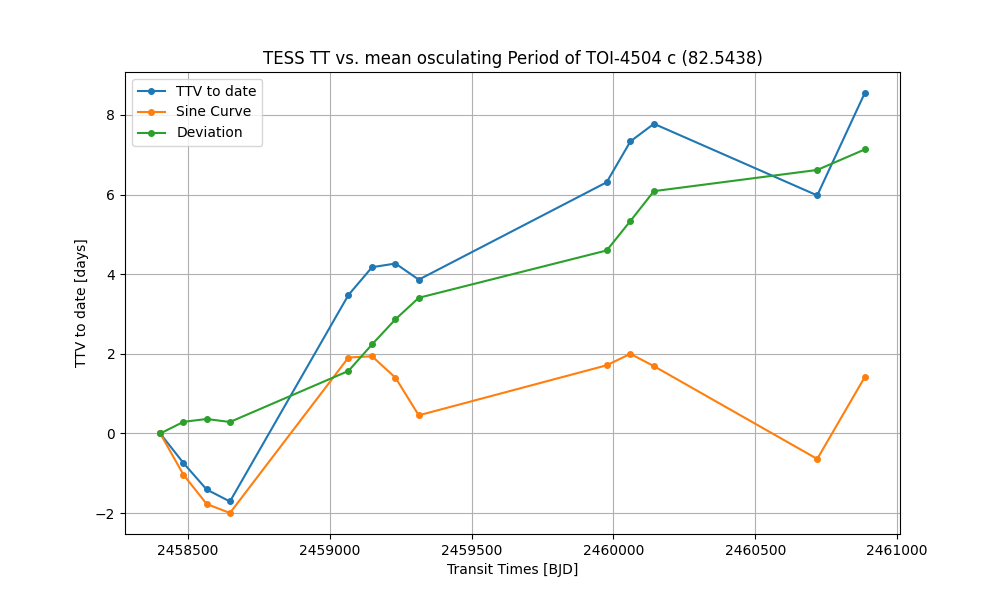
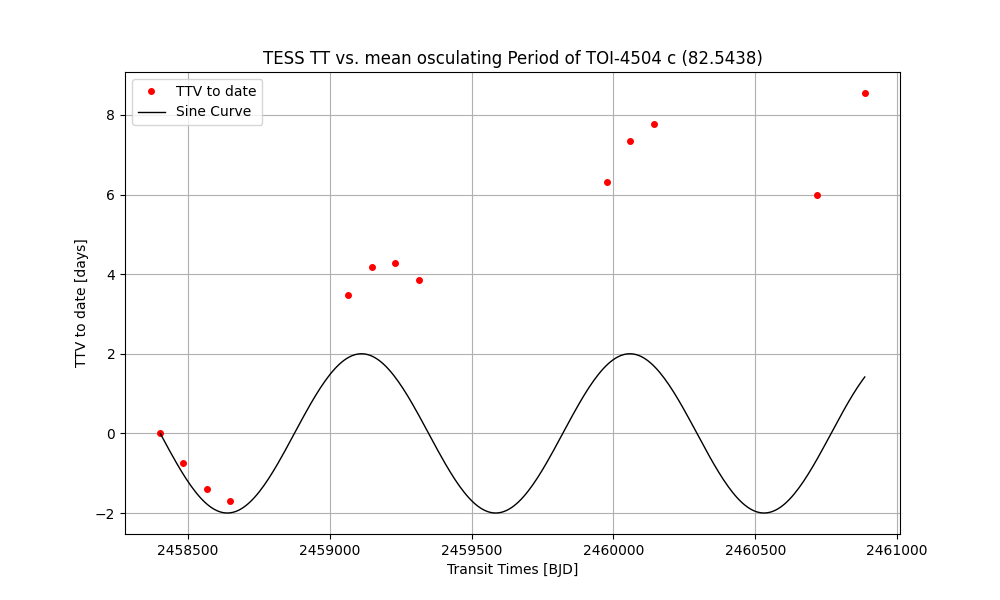
0.5.6 Fitting TOI-4504

diff --git a/src/curvesimulator/cs_results.py b/src/curvesimulator/cs_results.py
@@ -308,14 +308,15 @@ class CurveSimResults(dict):
         return parameter_list
 
     @staticmethod
-    def ttv_to_date_plot(p, amplitude, period, x_offset, y_offset, osc_per):
+    def ttv_to_date_plot(p, amplitude, period, x_offset, osc_per):
         measured_tt = CurveSimResults.get_measured_tt(p)  # reads from p.tt_file
         tt_tess = np.array(measured_tt["tt"][:13], dtype=float)
         transit_numbers = [0, 1, 2, 3, 8, 9, 10, 11, 19, 20, 21, 28, 30]
         ttv_to_date = [tt - tt_tess[0] - n * osc_per for n, tt in zip(transit_numbers, tt_tess)]
 
         x4sine = np.linspace(tt_tess[0], tt_tess[-1], 300)
-        sine_curve = amplitude * np.sin(2 * np.pi * (x4sine - tt_tess[0] - x_offset) / period) + y_offset
+        sine_curve = amplitude * np.sin(2 * np.pi * (x4sine - tt_tess[0] - x_offset) / period)
+        sine_curve -= sine_curve[0]
 
         CurveSimResults.plot_this(
             title=f"TESS TT vs. mean osculating Period of TOI-4504 c ({osc_per:.4f})",
@@ -325,7 +326,7 @@ class CurveSimResults(dict):
             y_lists=    [ttv_to_date,   sine_curve],
             data_labels=["TTV to date", "Sine Curve"],
             linestyles= ['',            '-'],
-            markersizes=[2,             0],
+            markersizes=[4,             0],
             colors=     ["Red",         "Black"],
             linewidths= [0,             1],
             grid=True,

diff --git a/src/curvesimulator/curvesim.py b/src/curvesimulator/curvesim.py
@@ -138,8 +138,8 @@ class CurveSimulator:
             # tt_sim = results.get_transit_data("TOI4504c", "TOI4504", "TT")
             # print(tt_sim)
 
-            CurveSimResults.ttv_to_date_plot(p, amplitude=2.0, period=946.5, x_offset=-473.25, y_offset=0, osc_per=82.79)
-            CurveSimResults.ttv_to_date_plot(p, amplitude=2.0, period=946.5, x_offset=-473.25, y_offset=0, osc_per=82.5438)
+            CurveSimResults.ttv_to_date_plot(p, amplitude=2.1, period=965, x_offset=-450, osc_per=82.83)
+            CurveSimResults.ttv_to_date_plot(p, amplitude=2.0, period=946.5, x_offset=-946.5/2, osc_per=82.5438)
 
         self.parameters = p
         self.bodies = bodies
